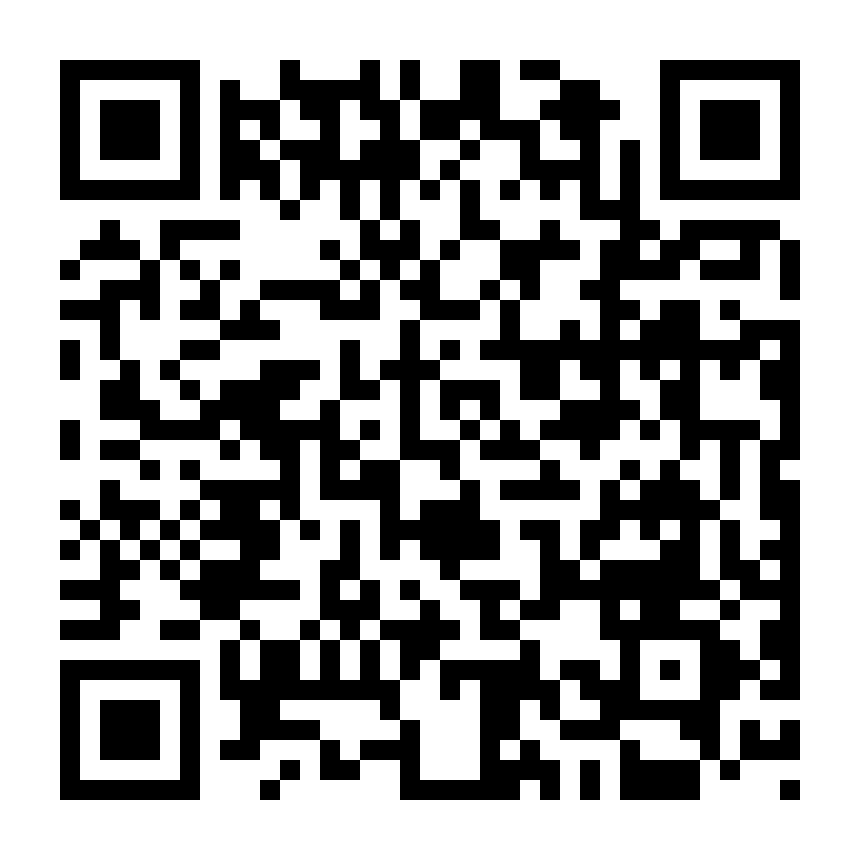
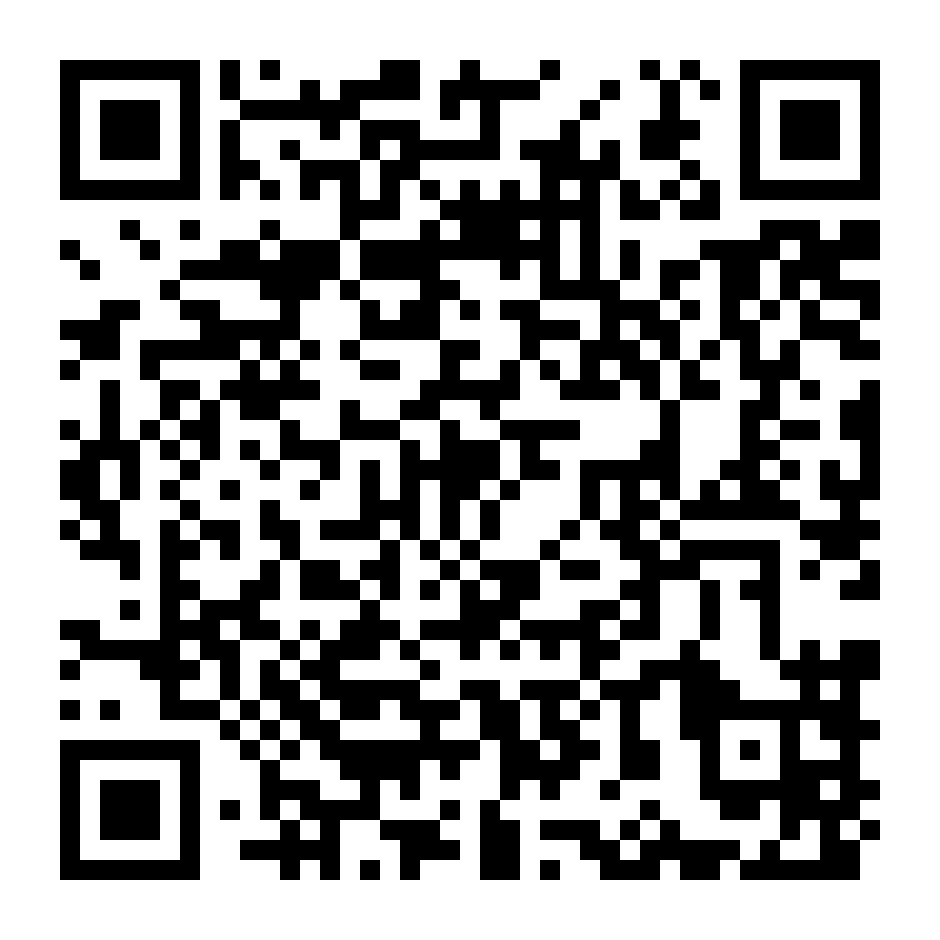
Update URLs and QR codes for HospitalityQR/28-paarroo-QR

diff --git a/28-paarroo/config.js b/28-paarroo/config.js
@@ -45,7 +45,7 @@ var RESTAURANT_CONFIG = {
     footerCity: "Crafted with care in Indore",
 
     // 8. Hosted Landing Page URL on HospitalityQR
-    landingPageUrl: "https://hospitalityqr.github.io/28-paarroo/"
+    landingPageUrl: "https://hospitalityqr.github.io/28-paarroo-QR/"
 };
 
 if (typeof module !== 'undefined' && module.exports) {

diff --git a/config.js b/config.js
@@ -45,7 +45,7 @@ var RESTAURANT_CONFIG = {
     footerCity: "Crafted with care in Indore",
 
     // 8. Hosted Landing Page URL on HospitalityQR
-    landingPageUrl: "https://hospitalityqr.github.io/28-paarroo/"
+    landingPageUrl: "https://hospitalityqr.github.io/28-paarroo-QR/"
 };
 
 if (typeof module !== 'undefined' && module.exports) {
